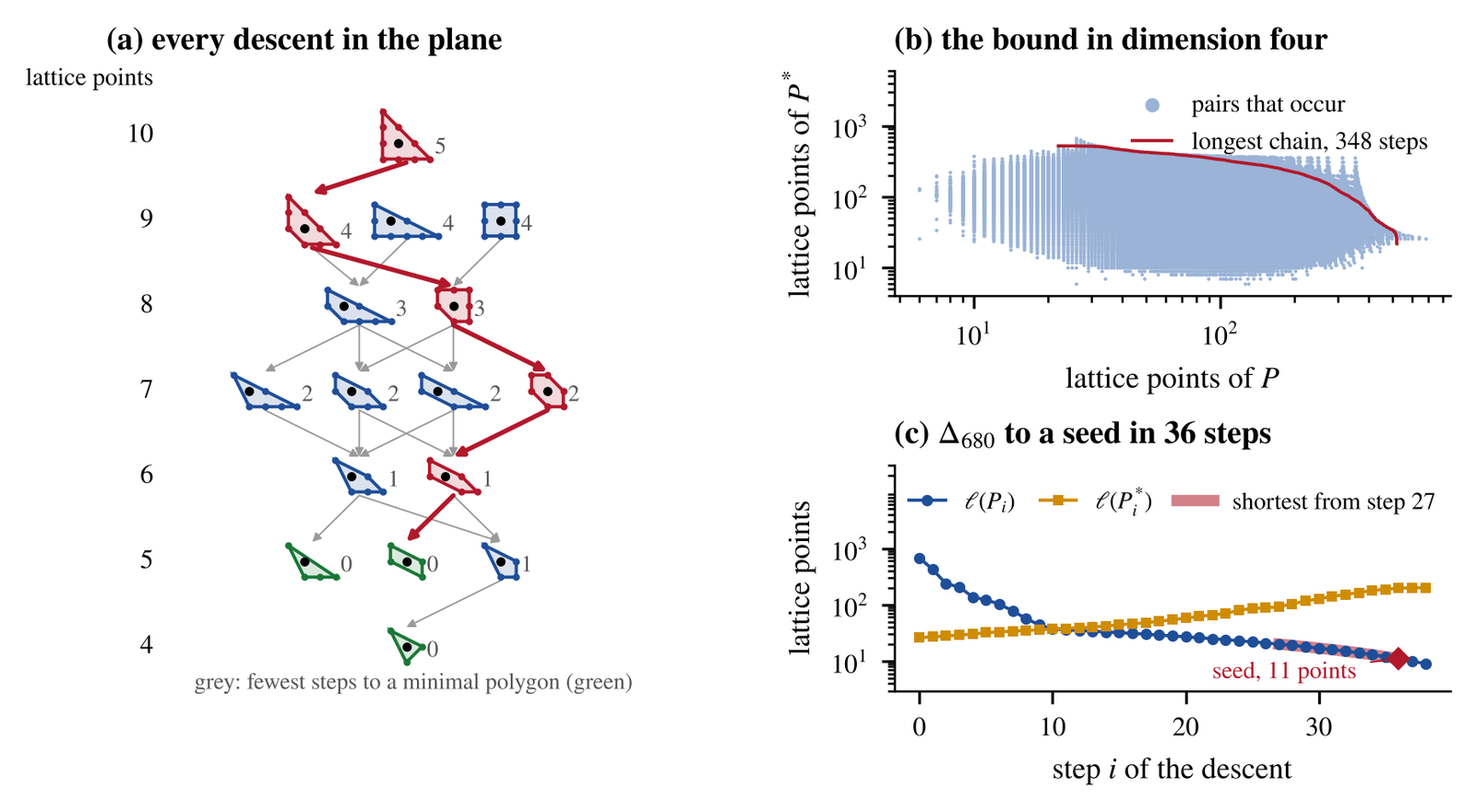
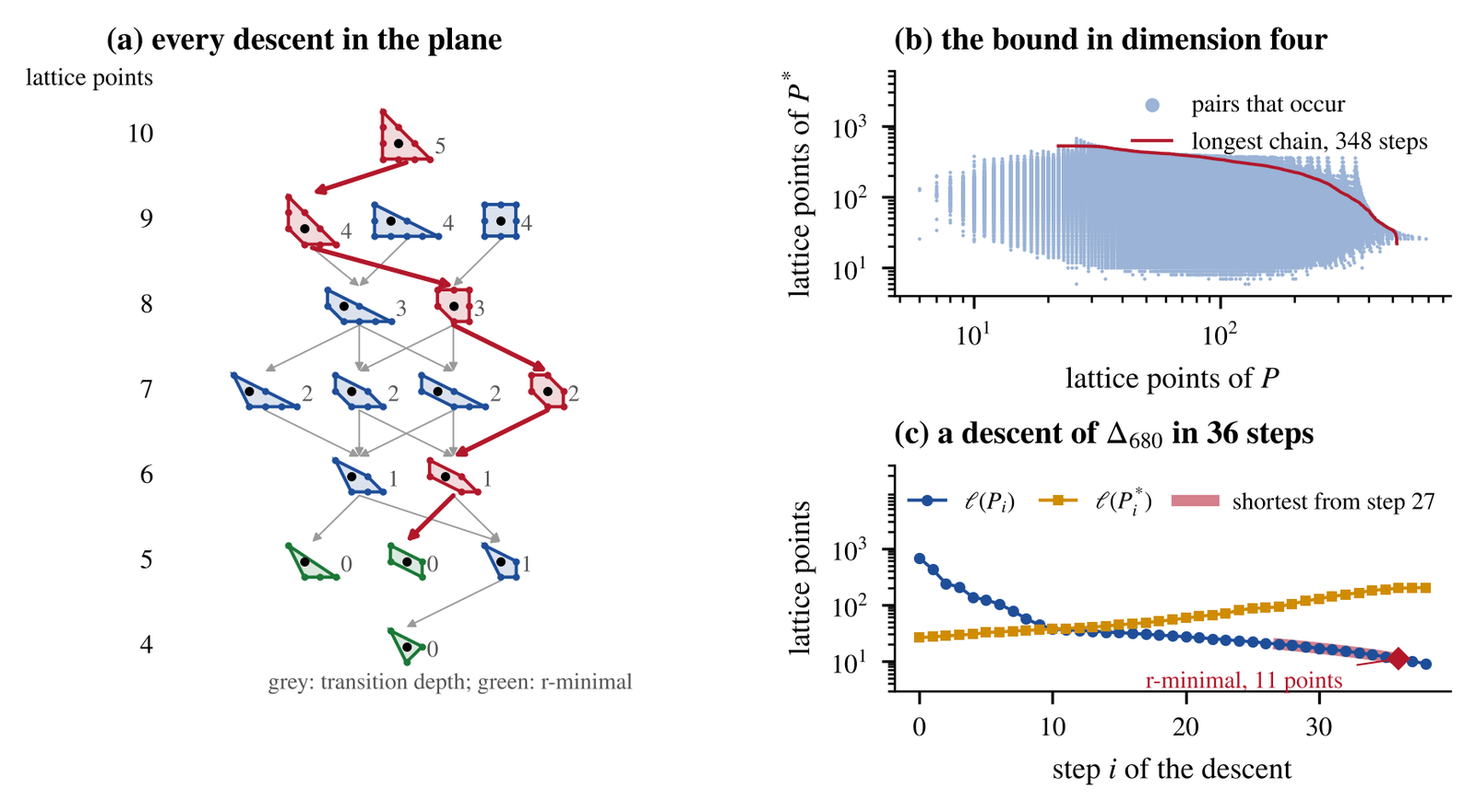
Construction mode: covers of reflexive polytopes in any dimension; the seed section states descents through covers; figure compaction skips compacted images

Changed region(s): [[0.125, 0.8275, 0.4375, 0.8581], [0.625, 0.521, 0.9062, 0.5516], [0.7812, 0.7968, 0.9375, 0.8581]]

diff --git a/paper/bllm/paper/sections/sec10i_seed.tex b/paper/bllm/paper/sections/sec10i_seed.tex
@@ -6,49 +6,45 @@ The sixth benchmark asks for one open conjecture of mathematical physics, of sta
 
 A lattice polytope $P\subset\mathbb{R}^{d}$ is \emph{reflexive} if the origin is an interior point and every facet of $P$ lies on a hyperplane $\{x:\langle a,x\rangle=1\}$ with $a\in\mathbb{Z}^{d}$. The vectors $a$ are then the vertices of the polar dual $P^{*}=\{y:\langle x,y\rangle\le1\text{ for }x\in P\}$, which is again reflexive, and $(P^{*})^{*}=P$. Batyrev showed that the anticanonical hypersurfaces of the toric variety of a reflexive $4$-polytope are Calabi--Yau threefolds, with mirror family given by $P^{*}$ \cite{Bat94}, and Kreuzer and Skarke listed all reflexive $4$-polytopes up to $\mathrm{GL}(4,\mathbb{Z})$: there are $\seedCount$ of them \cite{KS00}. Write $\ell(P)$ for the number of lattice points of $P$.
 
-A \emph{descent step} removes one vertex $v$ of $P$ and keeps the convex hull of the other lattice points,
-\[
-P\;\longmapsto\;P_{v}=\operatorname{conv}\bigl((P\cap\mathbb{Z}^{d})\setminus\{v\}\bigr),
-\]
-when $P_{v}$ is again reflexive. A polytope with no descent step is \emph{minimal}, a \emph{seed}. A \emph{descent} is a sequence of steps, and since every step loses a lattice point a descent stops, at a seed. The seed conjecture of \cite{BhaSeed} asserts, in the form proved here, that every reflexive $4$-polytope reaches a seed within a number of steps bounded independently of the polytope.\footnote{The source states its conjecture for the orbits of a seed under four kinds of moves, among them stellar subdivisions and polar duality. The form above, in which every step is as small as it can be, is the one settled in \cite{BhaSeed}; it is a statement about single polytopes and can be checked on every polytope of the list.}
+A reflexive polytope $Q\subsetneq P$ is a \emph{cover} of $P$ when no reflexive polytope lies strictly between them, and a \emph{reflexive descent} of $P$ is a chain $P=P_{0}\supsetneq P_{1}\supsetneq\cdots\supsetneq P_{k}$ in which each $P_{i+1}$ is a cover of $P_{i}$ and $P_{k}$ has no cover; $k$ is its number of steps. A reflexive polytope with no cover is \emph{r-minimal}, and every r-minimal polytope contains a minimal polytope in the sense of Kreuzer and Skarke, a \emph{seed} of their list \cite{KS00,BhaSeed}. The \emph{transition depth} $\delta(P)$ is the fewest steps of a reflexive descent of $P$. Every $P$ has a reflexive descent, because a polytope that is not r-minimal has a cover and every step loses a lattice point (Lemma~\ref{lem:seedstep} below). The seed conjecture, in the form stated and proved in \cite{BhaSeed}, asserts that $\delta(P)$ is bounded independently of $P$ in dimension four; the least such bound is the sharp constant $D_{4}=\max_{P}\delta(P)$.\footnote{The conjecture was first stated for chains of subpolytopes whose intermediate hulls are reflexive. The form above, in which no reflexive polytope may be skipped, is the strictest such chain. Deleting a vertex of $P$ and taking the hull of its other lattice points does not suffice from dimension three on: the reflexive $3$-polytope with $15$ lattice points and vertices $(1,0,0)$, $(0,1,0)$, $(-1,-1,0)$, $(0,0,1)$, $(-3,2,-2)$, $(-2,3,-2)$, $(-4,4,-3)$ has no reflexive vertex deletion, yet it has three covers, with $12$, $13$ and $13$ lattice points, and a reflexive descent of five steps \cite{BhaSeed}; construction mode reproduces all three numbers.}
 
 \begin{lemma}\label{lem:seedstep}
-If $P\mapsto Q$ is a descent step, then $\ell(Q)<\ell(P)$ and $\ell(Q^{*})>\ell(P^{*})$.
+If $Q\subsetneq P$ are reflexive, then $\ell(Q)<\ell(P)$ and $\ell(Q^{*})>\ell(P^{*})$.
 \end{lemma}
 
 \begin{proof}
-The removed vertex $v$ of $P$ is not a convex combination of the other points of $P$, so $v\notin Q$, and $Q\subset P$; hence $\ell(Q)<\ell(P)$. Duality reverses inclusion, so $P^{*}\subset Q^{*}$, and $Q^{*}\ne P^{*}$ because $Q\ne P$ and $(Q^{*})^{*}=Q$. A lattice polytope is the hull of its vertices, so some vertex $w$ of $Q^{*}$ lies outside $P^{*}$. As $Q$ is reflexive, $w$ is a lattice point. So $Q^{*}$ has every lattice point of $P^{*}$ and $w$ besides.
+If every vertex of $P$ lay in $Q$, the hull $P$ would lie in $Q$; so some vertex of $P$, a lattice point, is missing from $Q$, and $\ell(Q)<\ell(P)$. Duality reverses inclusion and is injective, so $P^{*}\subsetneq Q^{*}$, and the same argument applied to these two lattice polytopes gives $\ell(Q^{*})>\ell(P^{*})$.
 \end{proof}
 
 Let $S_{d}$ be the set of pairs $(\ell(P),\ell(P^{*}))$ over the reflexive polytopes of dimension $d$, ordered by $(n,m)\succ(n',m')$ when $n>n'$ and $m<m'$, and let $L_{d}$ be the number of steps of a longest chain in this order.
 
 \begin{theorem}\label{thm:seedbound}
-Every descent of a reflexive polytope of dimension $d$ has at most $L_{d}$ steps. In dimension four $L_{4}=\seedBound$: every reflexive $4$-polytope of the Kreuzer--Skarke list reaches a seed, and every descent of it has at most $\seedBound$ steps.
+Every reflexive descent of a reflexive polytope of dimension $d$ has at most $L_{d}$ steps. In dimension four $L_{4}=\seedBound$: every reflexive $4$-polytope of the Kreuzer--Skarke list reaches an r-minimal polytope, and with it a seed, and every reflexive descent of it has at most $\seedBound$ steps.
 \end{theorem}
 
 \begin{proof}
-Let $P_{0}\mapsto P_{1}\mapsto\cdots\mapsto P_{k}$ be a descent and write $x_{i}=(\ell(P_{i}),\ell(P_{i}^{*}))$. Every $x_{i}$ lies in $S_{d}$, and $x_{0}\succ x_{1}\succ\cdots\succ x_{k}$ by Lemma~\ref{lem:seedstep}. This is a chain of $k$ steps, so $k\le L_{d}$. For $d=4$ the set $S_{4}$ is read from the list, and a longest chain is found by sorting the pairs by their first entry and taking a longest strictly increasing subsequence of the second; it has $\seedChain$ pairs.
+Let $P_{0}\supsetneq P_{1}\supsetneq\cdots\supsetneq P_{k}$ be a reflexive descent and write $x_{i}=(\ell(P_{i}),\ell(P_{i}^{*}))$. Every $x_{i}$ lies in $S_{d}$, and $x_{0}\succ x_{1}\succ\cdots\succ x_{k}$ by Lemma~\ref{lem:seedstep}. This is a chain of $k$ steps, so $k\le L_{d}$. For $d=4$ the set $S_{4}$ is read from the list, and a longest chain is found by sorting the pairs by their first entry and taking a longest strictly increasing subsequence of the second; it has $\seedChain$ pairs.
 \end{proof}
 
-The proof needs no search over descents: one pass over the point counts of the list settles all $\seedCount$ polytopes at once. The bound is far from sharp. The largest polytope of the list, the simplex $\Delta_{680}$ with $680$ lattice points, has a listed descent of $38$ steps, each step certified, to a minimal simplex with nine lattice points; from the polytope at step $27$ a shortest descent takes nine steps, so $\Delta_{680}$ reaches a seed in $\seedDelta$ steps \cite{BhaSeed} (Fig.~\ref{fig:seed}(c)). The least number of steps needed in the worst case, the sharp constant, lies between $\seedLow$ and $\seedBound$.
+The proof needs no search over descents: one pass over the point counts of the list settles all $\seedCount$ polytopes at once. It bounds every descent, the longest as well as the shortest, so it need not be close to $D_{4}$. The largest polytope of the list, the simplex $\Delta_{680}$ with $680$ lattice points, has a listed descent of $38$ steps, each step certified, to an r-minimal simplex with nine lattice points; from the polytope at step $27$ a shortest descent takes nine steps, so $\delta(\Delta_{680})\le\seedDelta$ \cite{BhaSeed} (Fig.~\ref{fig:seed}(c)). The sharp constant satisfies $\seedLow\le D_{4}\le\seedBound$.
 
-In lower dimensions the sharp constant is known exactly. In the plane there are $16$ reflexive polygons, and the program \texttt{reflexive} of construction mode lists them, with every descent step between them, from scratch (Fig.~\ref{fig:seed}(a)).
+In lower dimensions the sharp constant is known exactly. In the plane there are $16$ reflexive polygons, and the program \texttt{reflexive} of construction mode lists them, with every cover, from scratch (Fig.~\ref{fig:seed}(a)).
 
 \begin{proposition}\label{prop:seedplane}
-Every reflexive polygon reaches a seed in at most $\seedTwo$ steps, and only the triangle with $10$ lattice points needs $\seedTwo$. The longest descent has $6$ steps, which equals $L_{2}$, and there are three seeds, with $4$, $5$ and $5$ lattice points.
+A cover of a reflexive polygon has one lattice point fewer. Every reflexive polygon has transition depth at most $\seedTwo$, and only the triangle with $10$ lattice points has depth $\seedTwo$. The longest reflexive descent has $6$ steps, which equals $L_{2}$, and there are three r-minimal polygons, with $4$, $5$ and $5$ lattice points.
 \end{proposition}
 
 \begin{proof}
-A reflexive polygon has exactly one interior lattice point, so $\ell(P)=b(P)+1$ with $b$ the number of boundary points, and $b(P)+b(P^{*})=12$ \cite{PRV00}. Hence $S_{2}=\{(n,14-n):4\le n\le10\}$ and $L_{2}=6$. The remaining statements are a finite check over the $16$ polygons, whose numbers of boundary points $3,\dots,9$ occur $1,3,2,4,2,3,1$ times; Fig.~\ref{fig:seed}(a) shows every step. The $10$-point triangle has a single step, to a $9$-point triangle, and from there the shortest way down passes through polygons with $8$, $7$, $6$ and $5$ points.
+A lattice polygon with exactly one interior lattice point is reflexive \cite{PRV00}. Let $Q\subsetneq P$ be reflexive polygons and let $v$ be a vertex of $P$ outside $Q$ (Lemma~\ref{lem:seedstep}). The hull $P_{v}$ of the other lattice points of $P$ contains $Q$, hence the origin in its interior, and has no other interior lattice point, so it is reflexive; it has $\ell(P)-1$ lattice points, as $v$ is not in the hull of the others. If $Q$ is a cover, then $Q=P_{v}$. So $\ell(P)=b(P)+1$ falls by one at each step, where $b$ counts boundary points, and $b(P)+b(P^{*})=12$ \cite{PRV00}. Hence $S_{2}=\{(n,14-n):4\le n\le10\}$ and $L_{2}=6$. The remaining statements are a finite check over the $16$ polygons, whose numbers of boundary points $3,\dots,9$ occur $1,3,2,4,2,3,1$ times; Fig.~\ref{fig:seed}(a) shows every cover. The $10$-point triangle has a single cover, a $9$-point triangle, and from there the shortest descent passes through polygons with $8$, $7$, $6$ and $5$ points.
 \end{proof}
 
-In dimension three the same algorithm gives $\seedThree$ for all $\seedCountThree$ reflexive polytopes \cite{BhaSeed}. That two of the three dimensions are settled exactly and the third is bracketed by $\seedLow$ and $\seedBound$ is the honest state of the conjecture after this round: it holds, with a uniform bound, and its sharp form in dimension four remains open.
+In dimension three the largest transition depth over all $\seedCountThree$ reflexive polytopes is $\seedThree$ \cite{BhaSeed}. So the conjecture holds in dimension four with a uniform bound, the sharp constant is $\seedTwo$ in dimension two and $\seedThree$ in dimension three, and in dimension four it lies between $\seedLow$ and $\seedBound$.
 
 \begin{figure*}[t]
 \centering
 \includegraphics[width=\textwidth,height=0.78\textheight,keepaspectratio]{figures/fig_seed}
-\Description{Left: the sixteen reflexive polygons in rows by number of lattice points, from ten at the top to four at the bottom, with arrows for every descent step; the shortest descent from the ten-point triangle is red and the three seeds are green. Upper right: the pairs of point counts of the reflexive four-polytopes and their dual, with the longest chain in red. Lower right: the point counts of the largest four-polytope and its dual along a descent of 38 steps, with a shorter descent of 36 steps marked in red.}
-\caption{Descents to seeds. (a) The $16$ reflexive polygons, by number of lattice points, with an arrow for every descent step; the three seeds are green, the shortest descent from the $10$-point triangle is red, and the grey number is the fewest steps from each polygon to a seed. (b) The pairs $(\ell(P),\ell(P^{*}))$ over the $\seedCount$ reflexive $4$-polytopes and a longest chain in the order of Theorem~\ref{thm:seedbound}, of $\seedBound$ steps. (c) The lattice points of $P_{i}$ and of $P_{i}^{*}$ along the listed descent of $\Delta_{680}$; from step $27$ a shortest descent (red) ends at a seed with $11$ points after nine steps.}
+\Description{Left: the sixteen reflexive polygons in rows by number of lattice points, from ten at the top to four at the bottom, with arrows for every cover; the shortest descent from the ten-point triangle is red and the three r-minimal polygons are green. Upper right: the pairs of point counts of the reflexive four-polytopes and their dual, with the longest chain in red. Lower right: the point counts of the largest four-polytope and its dual along a descent of 38 steps, with a shorter descent of 36 steps marked in red.}
+\caption{Descents to seeds. (a) The $16$ reflexive polygons, by number of lattice points, with an arrow for every cover; the three r-minimal polygons are green, the shortest descent from the $10$-point triangle is red, and the grey number is the transition depth. (b) The pairs $(\ell(P),\ell(P^{*}))$ over the $\seedCount$ reflexive $4$-polytopes and a longest chain in the order of Theorem~\ref{thm:seedbound}, of $\seedBound$ steps. (c) The lattice points of $P_{i}$ and of $P_{i}^{*}$ along the listed descent of $\Delta_{680}$; from step $27$ a shortest descent (red) ends at an r-minimal polytope with $11$ points after nine steps.}
 \label{fig:seed}
 \end{figure*}
 

diff --git a/src/ebllm/construct/reflexive.py b/src/ebllm/construct/reflexive.py
@@ -1,13 +1,16 @@
-"""Reflexive lattice polytopes: lattice points, duality, descents and the pair-chain bound.
+"""Reflexive lattice polytopes: lattice points, duality, covers, descents and the pair-chain bound.
 
 A lattice polytope P in R^d is reflexive when the origin is an interior point and every facet
 lies on a hyperplane a.x = 1 with a an integral vector; the vectors a are then the vertices of
-the polar dual P*, which is reflexive too. A descent step removes one vertex v of P and keeps
-the convex hull of the other lattice points of P, provided that hull is again reflexive. A
-polytope with no descent step is minimal, and a descent ends at a minimal polytope.
+the polar dual P*, which is reflexive too. A reflexive Q strictly inside P is a cover of P when no
+reflexive polytope lies strictly between them, and a reflexive descent is a chain of covers. A
+polytope with no cover is r-minimal, and a descent ends at an r-minimal polytope; every r-minimal
+polytope contains a minimal polytope in the sense of Kreuzer and Skarke, a seed. In the plane the
+covers of P are the hulls of its lattice points with one vertex left out; from dimension three on
+that operation can miss every cover, and ``covers`` finds them all.
 
-Every step loses at least one lattice point of P (the vertex v) and, because the dual of a
-smaller polytope is larger, gains at least one lattice point of the dual. So along a descent
+Q strictly inside P has fewer lattice points than P (a vertex of P is missing) and, because the
+dual of a smaller polytope is larger, its dual has more lattice points than P*. So along a descent
 the pair (points of P, points of P*) falls strictly in its first entry and rises strictly in
 its second. If S is the set of pairs that occur among the reflexive polytopes of dimension d,
 every descent is a chain in S for that order, and the longest chain in S bounds every descent
@@ -153,9 +156,11 @@ def dual(points):
     return sorted(a for a, _ in facets(points))
 
 
-def descent_steps(points):
-    """Every polytope reached in one descent step: drop a vertex, keep the hull of the other
-    lattice points, when that hull is reflexive. Each is returned as its sorted lattice points."""
+def vertex_deletions(points):
+    """The reflexive polytopes conv((P n Z^d) minus {v}) for the vertices v of P, as sorted lattice points.
+
+    In the plane these are exactly the covers of P (``covers``); from dimension three on a polytope
+    can have covers and no reflexive vertex deletion at all."""
     lp = lattice_points(points)
     out = []
     for v in vertices(lp):
@@ -165,7 +170,58 @@ def descent_steps(points):
     return sorted(set(out))
 
 
+def _origin_inside(lp):
+    """True when the origin is an interior point of conv(lp)."""
+    if dimension(lp) != len(lp[0]):
+        return False
+    return all(c > 0 for _, c in facets(lp))
+
+
+@lru_cache(maxsize=None)
+def _maximal_reflexive(lp):
+    """The maximal reflexive polytopes inside conv(lp), where lp is the full set of lattice points of a
+    lattice polytope. A reflexive polytope inside a polytope X that is not reflexive misses a vertex w of
+    X, so it lies in the hull of the other lattice points of X, whose lattice points are lp minus w."""
+    if not _origin_inside(lp):
+        return ()
+    if is_reflexive(lp):
+        return (lp,)
+    found = set()
+    for w in vertices(lp):
+        found.update(_maximal_reflexive(tuple(p for p in lp if p != w)))
+    return _maximal(found)
+
+
+def _maximal(sets):
+    sets = sorted(set(sets), key=len, reverse=True)
+    keep = []
+    for s in sets:
+        if not any(set(s) < set(t) for t in keep):
+            keep.append(s)
+    return tuple(sorted(keep))
+
+
+def covers(points):
+    """The covers of a reflexive polytope P: the reflexive polytopes Q strictly inside P with no
+    reflexive polytope strictly between Q and P, each as its sorted lattice points. Every reflexive
+    polytope strictly inside P misses a vertex of P, so the covers are the maximal reflexive polytopes
+    inside the hulls conv((P n Z^d) minus {v}) over the vertices v of P."""
+    lp = tuple(lattice_points(points))
+    if not is_reflexive(lp):
+        raise ValueError("the polytope is not reflexive")
+    found = set()
+    for v in vertices(lp):
+        found.update(_maximal_reflexive(tuple(p for p in lp if p != v)))
+    return list(_maximal(found))
+
+
+def descent_steps(points):
+    """The steps of a reflexive descent from P: its covers."""
+    return covers(points)
+
+
 def is_minimal(points):
+    """True when P has no cover (P is r-minimal)."""
     return not descent_steps(points)
 
 
@@ -179,12 +235,12 @@ def _depths(lp):
 
 
 def shortest_descent(points):
-    """The fewest steps from P to a minimal polytope."""
+    """The fewest steps of a reflexive descent of P (its transition depth)."""
     return _depths(tuple(lattice_points(points)))[0]
 
 
 def longest_descent(points):
-    """The most steps of any descent from P (every descent ends at a minimal polytope)."""
+    """The most steps of any reflexive descent of P."""
     return _depths(tuple(lattice_points(points)))[1]
 
 
@@ -252,11 +308,11 @@ def _hermite2(cols):
 def reflexive_polygons():
     """The 16 reflexive polygons up to GL(2, Z), each as its sorted lattice points.
 
-    A reflexive polygon P lies in M* whenever its dual contains the minimal polygon M (duality
-    reverses inclusion), and every dual contains a minimal polygon, the end of any of its
-    descents. So descending from the duals of the minimal polygons reaches every reflexive
+    A reflexive polygon P lies in M* whenever its dual contains the r-minimal polygon M (duality
+    reverses inclusion), and every dual contains an r-minimal polygon, the end of any of its
+    descents. So descending from the duals of the r-minimal polygons reaches every reflexive
     polygon. The three starting polygons below are those duals: the triangle with 10 lattice
-    points, the square [-1, 1]^2 and a triangle with 9 points. The tests check that the minimal
+    points, the square [-1, 1]^2 and a triangle with 9 points. The tests check that the r-minimal
     polygons found are exactly the duals of these three, so the search is closed, and that the
     list agrees with the classical one.
     """

diff --git a/paper/bllm/paper/sections/sec11_status.tex b/paper/bllm/paper/sections/sec11_status.tex
@@ -6,7 +6,7 @@ Inside the model of Section~\ref{sec:model}, the paper determines the least cost
 
 None of this needs foresight or a single agent. A rule that sees only the past costs is sound for every future and pays over the offline optimum an excess of order $\frac{A}{L}\log\log\frac{A}{a_{1}}$, which no online rule avoids (Theorem~\ref{thm:G}), so sound singularities are reached online whenever they are reached at all (Corollary~\ref{cor:onlinesing}). Splitting the work among subagents is free when the budget is split in proportion to cost, and costs exactly a Kullback--Leibler divergence otherwise (Theorem~\ref{thm:H}); cheap checks before one exact check reduce the cost of the exact check to the correct candidates, up to a logarithmic premium (Theorem~\ref{thm:cascade}). Depth has a price of the same kind: $n$ verified layers that share one budget cost at least $n\log(n/\theta)$ nats of soundness, each added layer at least $\log((n+1)/\theta)$ more, and past a finite depth every tower costs more than any fixed amount (Theorem~\ref{thm:tower}).
 
-Outside the model, three results come from the experiments. Theorem~\ref{thm:onethird} proves a lattice mass gap $m\ge-\log(3\beta_{W})$ for four-dimensional $\mathrm{SU}(2)$ on $\beta_{W}<\frac13$ by a gauge fixing with one fixed link per plaquette, and Proposition~\ref{prop:forestceiling} shows that no forest gauge fixing goes further; the theorem is proved here and has not been refereed. Lemma~\ref{lem:levelposet} reduces monochromatic sublattices of a level colouring to weighted posets, and with it Theorem~\ref{thm:fvalues} determines $f(n)$ for $n\le20$. Theorem~\ref{thm:seedbound} proves the seed conjecture for the reflexive polytopes of dimension four with a uniform bound: every descent to a minimal seed has at most $\seedBound$ steps, because each step lowers the lattice points of the polytope and raises those of its dual, and the pairs of the two counts that occur in the Kreuzer--Skarke list admit no longer chain.
+Outside the model, three results come from the experiments. Theorem~\ref{thm:onethird} proves a lattice mass gap $m\ge-\log(3\beta_{W})$ for four-dimensional $\mathrm{SU}(2)$ on $\beta_{W}<\frac13$ by a gauge fixing with one fixed link per plaquette, and Proposition~\ref{prop:forestceiling} shows that no forest gauge fixing goes further; the theorem is proved here and has not been refereed. Lemma~\ref{lem:levelposet} reduces monochromatic sublattices of a level colouring to weighted posets, and with it Theorem~\ref{thm:fvalues} determines $f(n)$ for $n\le20$. Theorem~\ref{thm:seedbound} proves the seed conjecture for the reflexive polytopes of dimension four with a uniform bound: every reflexive descent has at most $\seedBound$ steps, because each step lowers the lattice points of the polytope and raises those of its dual, and the pairs of the two counts that occur in the Kreuzer--Skarke list admit no longer chain.
 
 The measurements of Section~\ref{sec:experiments} are these: typing the constructions is what lets the network reach a step that random pairing does not; Hebbian boosters do not improve on the unboosted network; memory halves the checks needed to reach the plateau and does not raise it; agents reach the plateau sooner and no further; and no transfer of a pattern in the matrix of Section~\ref{ssec:matrix} closes a blocking step. Construction mode rebuilds from the rules of Steinberg's problem the two gadgets of the counterexample of \cite{CHK17} and the counterexample itself, where random combination of library pieces finds nothing, and finds nothing on Erd\H{o}s's question for cycles of length $4$ to $6$ (Section~\ref{ssec:steinberg}). On three targets at equal budgets of exact checks, depth paid once: a second layer whose curriculum turns an easier gadget into a lemma reaches a gadget that the builder alone does not, a third layer adds nothing, and sharing one library and one set of weights shortens the step after the lemma (Section~\ref{ssec:towerbench}). Pointed at the Hodge conjecture alone, the network leaves the gap of every target point where it was after twelve rounds, including a burst that multiplied the cost of a round; counting excludes two of the configurations on $E_{0}^{6}$ left open in \cite{BB26c} and reduces two others to explicit Massey products (Section~\ref{sec:hodgeround}).
 
@@ -24,7 +24,7 @@ Six questions are left open, and each is a precise mathematical question.
 
 \emph{Monochromatic sublattices.} Is $f(n)=O(n)$? For every $n\le20$ some level colouring is optimal (Theorem~\ref{thm:fvalues}); if level colourings are optimal for every $n$, Lemma~\ref{lem:levelposet} reduces the question to words in two letters.
 
-\emph{The sharp seed constant.} What is the least $D$ such that every reflexive $4$-polytope reaches a seed in at most $D$ descent steps? It lies between $\seedLow$ and $\seedBound$ (Section~\ref{sec:seed}); in dimensions two and three it is $\seedTwo$ and $\seedThree$.
+\emph{The sharp seed constant.} What is the least $D$ such that every reflexive $4$-polytope has a reflexive descent of at most $D$ steps? It lies between $\seedLow$ and $\seedBound$ (Section~\ref{sec:seed}); in dimensions two and three it is $\seedTwo$ and $\seedThree$.
 
 \emph{The online constant.} The upper and lower bounds of Theorem~\ref{thm:G} differ by a factor of four in the term $\frac{A_{N}}{L}\log\log\frac{A_{N}}{a_{1}}$. The exact constant is the least $\kappa$ such that a $\theta$-sound online rule has excess $(\kappa+o(1))\frac{A_{N}}{L}\log\log\frac{A_{N}}{a_{1}}$ on every sequence; the bounds give $\frac12\le\kappa\le2$.
 

diff --git a/paper/bllm/paper/sections/sec01_intro.tex b/paper/bllm/paper/sections/sec01_intro.tex
@@ -111,7 +111,7 @@ The theorems price the checks; they do not say where good candidates come from. 
 \item \emph{Depth pays once.} At equal budgets of exact checks, a second layer that first builds an easier gadget and keeps it as a lemma reaches the profile of the second gadget of \cite{CHK17} on seven of ten runs, where the builder alone never reaches it; a third layer reaches it on six. When all layers share one library and one set of weights, the step from the lemma to the goal takes a median of $308$ checks against $2{,}342$ when each copy keeps its own. The crossing loop, given $13$ to $20$ times the budget, finds no gadget, and no tower finds one on Erd\H{o}s's question (Section~\ref{ssec:towerbench}).
 \item \emph{One problem only.} Pointed at the Hodge conjecture alone, with every result of \cite{BB26c} and of the companion paper \cite{BMB26b} in its library, the engine excludes by counting two of the configurations left open on $E_{0}^{6}$ and reduces two others to the ranks of explicit Massey products, and the gap of every target point is the same after the last round as after the first (Section~\ref{sec:hodgeround}).
 \item \emph{It learns from its failures.} Every failed attempt now writes a record that names the part that failed, changes one rule of the engine and is closed by the outcome of the next attempt under the changed rule. In the log so far, \modChanges{} changes of rule followed \modAttempts{} attempts on \modTargets{} targets, and the retries of \modAdvanced{} of the \modBuilt{} changes that were built closed their target. The loop never makes the same change twice on a target, so it stops after at most one attempt more than there are changes it can propose (Proposition~\ref{prop:loopstops}), and it ranks the kinds of change by the posterior mean of their success (Proposition~\ref{prop:playbook}); Section~\ref{sec:selfmod}.
-\item \emph{A benchmark crossed.} On a conjecture about the reflexive polytopes of dimension four, whose Calabi--Yau hypersurfaces form the largest known list of Calabi--Yau threefolds, the engine reached a proof: every descent of such a polytope to a minimal seed has at most $\seedBound$ steps, for all $\seedCount$ polytopes of the Kreuzer--Skarke list, because each step lowers the number of lattice points of the polytope and raises that of its dual (Theorem~\ref{thm:seedbound}). In dimensions two and three the sharp constants are $\seedTwo$ and $\seedThree$; in dimension four the sharp constant lies between $\seedLow$ and $\seedBound$ and is open. This passes the sixth benchmark, one open conjecture of mathematical physics proved without conditions (Section~\ref{sec:seed}).
+\item \emph{A benchmark crossed.} On a conjecture about the reflexive polytopes of dimension four, whose Calabi--Yau hypersurfaces form the largest known list of Calabi--Yau threefolds, the engine reached a proof: shrunk one reflexive polytope at a time, such a polytope reaches a seed in at most $\seedBound$ steps, for all $\seedCount$ polytopes of the Kreuzer--Skarke list, because each step lowers the number of lattice points of the polytope and raises that of its dual (Theorem~\ref{thm:seedbound}). In dimensions two and three the sharp constants are $\seedTwo$ and $\seedThree$; in dimension four the sharp constant lies between $\seedLow$ and $\seedBound$ and is open. This passes the sixth benchmark, one open conjecture of mathematical physics proved without conditions (Section~\ref{sec:seed}).
 \end{enumerate}
 On Erd\H{o}s problem 1183 a reduction to weighted posets (Lemma~\ref{lem:levelposet}) gives the upper bounds that, with the known lower bounds, determine $f(n)$ for $n\le20$ (Theorem~\ref{thm:fvalues}). None of the five problems is solved, and Section~\ref{ssec:whyhard} states for each the step at which every construction we hold stops; the sixth benchmark is passed, by the seed conjecture.
 

diff --git a/paper/bllm/paper/main.tex b/paper/bllm/paper/main.tex
@@ -67,7 +67,7 @@
 
 \begin{abstract}
 \itshape
-A system that improves itself keeps every change that passes a check, so a check that makes errors lets mistakes pile up. We compute the least checking that keeps such a system sound. It is an entropy of the costs of the changes, and an endless chain of improvements stays sound at finite cost exactly when that entropy is finite. A stack of checked layers costs more than its layers would cost alone. We also compute how many guesses a proposer needs before a right one appears: human authors come close to this least number, and language models need $1.5$ to $4.3$ times as many. Anaxia, an engine built on these laws, rebuilt the published 2016 counterexample to Steinberg's conjecture from the rules of a colouring problem alone. It learns from its failures, changing one of its own rules after each attempt that fails, and it proved a conjecture on the four-dimensional reflexive polytopes behind Calabi--Yau threefolds: each of them reaches a minimal seed in at most $\seedBound$ steps. The engine is a work in progress, and its rules and search are being revised and extended for the open problems it has not yet settled.
+A system that improves itself keeps every change that passes a check, so a check that makes errors lets mistakes pile up. We compute the least checking that keeps such a system sound. It is an entropy of the costs of the changes, and an endless chain of improvements stays sound at finite cost exactly when that entropy is finite. A stack of checked layers costs more than its layers would cost alone. We also compute how many guesses a proposer needs before a right one appears: human authors come close to this least number, and language models need $1.5$ to $4.3$ times as many. Anaxia, an engine built on these laws, rebuilt the published 2016 counterexample to Steinberg's conjecture from the rules of a colouring problem alone. It learns from its failures, changing one of its own rules after each attempt that fails, and it proved a conjecture on the four-dimensional reflexive polytopes behind Calabi--Yau threefolds: shrunk one reflexive polytope at a time, each of them reaches a seed in at most $\seedBound$ steps. The engine is a work in progress, and its rules and search are being revised and extended for the open problems it has not yet settled.
 \par\medskip\upshape\noindent\textit{2020 Mathematics Subject Classification.} 68T05; 68T20; 94A17; 60J80; 05C15.
 \end{abstract}
 

diff --git a/paper/bllm/paper/figures/src/make_round8.py b/paper/bllm/paper/figures/src/make_round8.py
@@ -1,7 +1,7 @@
-"""The figure of the benchmark crossed: descents of reflexive polytopes to minimal seeds.
+"""The figure of the benchmark crossed: reflexive descents of reflexive polytopes.
 
 Panel (a) is computed here from construction mode (src/ebllm/construct/reflexive.py): the 16
-reflexive polygons, every descent step between them, and the shortest descent from the largest.
+reflexive polygons, every cover between them, and the shortest descent from the largest.
 Panels (b) and (c) read the data of the seed run, data/seed/pairs4.json (the pairs of lattice
 points of P and of its dual over the Kreuzer-Skarke list, with the longest chain) and
 data/seed/delta680.json (the lattice points along the certified descent of the largest polytope,
@@ -120,7 +120,7 @@ def panel_polygons(ax):
     ax.set_aspect("equal")
     ax.axis("off")
     title(ax, "(a) every descent in the plane")
-    ax.text(3.85, -0.72, "grey: fewest steps to a minimal polygon (green)", fontsize=6.5, ha="right", color=GREY)
+    ax.text(3.85, -0.72, "grey: transition depth; green: r-minimal", fontsize=6.5, ha="right", color=GREY)
 
 
 def panel_pairs(ax):
@@ -152,7 +152,7 @@ def panel_delta680(ax):
     sy = [n[k] - j for j in range(extra + 1)]
     ax.plot(sx, sy, "-", lw=3.2, color=RED, alpha=0.55, zorder=1, label=f"shortest from step {k}")
     ax.plot(sx[-1], sy[-1], "D", ms=4.6, color=RED, mec="none", zorder=5)
-    ax.annotate("seed, 11 points", (sx[-1], sy[-1]), xytext=(sx[-1] - 14, sy[-1] / 2.2), fontsize=6.8,
+    ax.annotate("r-minimal, 11 points", (sx[-1], sy[-1]), xytext=(sx[-1] - 19, 4.3), va="center", fontsize=6.8,
                 color=RED, arrowprops=dict(arrowstyle="-", lw=0.5, color=RED))
     ax.set_yscale("log")
     ax.set_ylim(3, 3e4)
@@ -162,7 +162,7 @@ def panel_delta680(ax):
     ax.legend(frameon=False, loc="upper center", ncol=3, columnspacing=1.0, handlelength=1.5, fontsize=6.8)
     for sp in ("top", "right"):
         ax.spines[sp].set_visible(False)
-    title(ax, rf"(c) $\Delta_{{680}}$ to a seed in {k + extra} steps")
+    title(ax, rf"(c) a descent of $\Delta_{{680}}$ in {k + extra} steps")
 
 
 def fig_seed():

diff --git a/paper/bllm/paper/main_jair.tex b/paper/bllm/paper/main_jair.tex
@@ -92,7 +92,7 @@ We compute the least checking that keeps a self-improving system sound, the leas
 We prove the bounds in a model of repeated random checks, check their finite inequalities in Lean~4, and build Anaxia, an engine that combines human constructions, a shared memory, a mode that builds new objects together with the argument for what they force, stacked layers, and a loop that changes one of its own rules after each attempt that fails.
 
 {\bf Results:}
-The least checking is an entropy of the costs of the changes, and an endless chain of improvements stays sound at finite cost exactly when that entropy is finite. A stack of checked layers costs more than its layers would cost alone. Human authors come close to the least number of guesses, and nine language models need $1.5$ to $4.3$ times as many. Memory halves the checks the engine needs. From the rules of a colouring problem alone, the engine rebuilt the published 2016 counterexample to Steinberg's conjecture. It proved a conjecture on the four-dimensional reflexive polytopes behind Calabi--Yau threefolds: each of them reaches a minimal seed in at most $\seedBound$ steps.
+The least checking is an entropy of the costs of the changes, and an endless chain of improvements stays sound at finite cost exactly when that entropy is finite. A stack of checked layers costs more than its layers would cost alone. Human authors come close to the least number of guesses, and nine language models need $1.5$ to $4.3$ times as many. Memory halves the checks the engine needs. From the rules of a colouring problem alone, the engine rebuilt the published 2016 counterexample to Steinberg's conjecture. It proved a conjecture on the four-dimensional reflexive polytopes behind Calabi--Yau threefolds: shrunk one reflexive polytope at a time, each of them reaches a seed in at most $\seedBound$ steps.
 
 {\bf Conclusions:}
 The price of soundness is an entropy, and it can be computed. The engine is a work in progress, and its rules and search are being revised and extended for the open problems it has not yet settled.

diff --git a/paper/bllm/paper/figures/src/compact_figures.py b/paper/bllm/paper/figures/src/compact_figures.py
@@ -2,6 +2,9 @@
 
     python3 compact_figures.py            # rewrites paper/bllm/paper/figures/*.png in place
 
+Figures that are already opaque palette images of at most 1600 pixels are skipped, so the program
+can be run after any figure program without quantizing the other figures again.
+
 Run it after the figure programs. Every figure is set at the full text width (about 7 inches),
 so each PNG is flattened onto white, scaled to at most 1600 pixels across (about 230 dpi on the
 page), and reduced to a 256-colour palette with pngquant when it is installed. pdfTeX then embeds
@@ -32,16 +35,25 @@ def flatten(path):
     out.save(path, optimize=True)
 
 
+def compacted(path):
+    """True for a PNG this program has already written: an opaque palette image at most MAX_WIDTH
+    across. Those are left alone, so that running the program again does not quantize them twice."""
+    with Image.open(path) as im:
+        return im.mode == "P" and im.width <= MAX_WIDTH and "transparency" not in im.info
+
+
 def main():
-    files = sorted(glob.glob(os.path.join(FIG, "*.png")))
+    every = sorted(glob.glob(os.path.join(FIG, "*.png")))
+    files = [f for f in every if not compacted(f)]
     for f in files:
         flatten(f)
     quant = shutil.which("pngquant")
-    if quant:
+    if quant and files:
         subprocess.run([quant, "--force", "--ext", ".png", "--quality", "80-98", "--speed", "1",
                         "--strip", *files], check=True)
-    total = sum(os.path.getsize(f) for f in files)
-    print(f"{len(files)} figures, {total / 2**20:.1f} MB, palette: {'yes' if quant else 'no (pngquant not found)'}")
+    total = sum(os.path.getsize(f) for f in every)
+    print(f"{len(every)} figures ({len(files)} compacted now), {total / 2**20:.1f} MB, "
+          f"palette: {'yes' if quant else 'no (pngquant not found)'}")
 
 
 if __name__ == "__main__":

diff --git a/paper/bllm/paper/sections/sec10c_benchmark.tex b/paper/bllm/paper/sections/sec10c_benchmark.tex
@@ -17,7 +17,7 @@ Benchmark & Pass line & Partial score & Blocking step \\
 \rr Standard conjecture B & \rr every smooth projective variety & \rr $11$ of $14$ pieces (Table~\ref{tab:split}) & \rr an algebraic inverse of $L$ on transcendental $H^{2}$; it reduces to the Hodge conjecture on $X\times X$ \\
 \rr Chowla & \rr every $k$, ordinary averages & \rr $4$ of $8$ pieces, one more claimed (Table~\ref{tab:split}) & \rr the parity barrier; local Gowers uniformity on intervals of every length $H\to\infty$ \\
 \rr Erd\H{o}s 1183 & \rr $f(n)$ for every $n$, or an answer to Question~9.3: is $f(n)=O(n)$? & \rr $f(n)$ exact for $n\le20$ (Theorem~\ref{thm:fvalues}) & \rr a family of colourings for every $n$ \\
-\rr Mathematical physics & \rr one open conjecture of standard difficulty, proved unconditionally with the engine's constructions & \rr \textbf{passed}: every descent of a reflexive $4$-polytope to a minimal seed has at most $\seedBound$ steps (Theorem~\ref{thm:seedbound}) & \rr none for the pass line; the sharp constant in dimension four lies between $\seedLow$ and $\seedBound$ \\
+\rr Mathematical physics & \rr one open conjecture of standard difficulty, proved unconditionally with the engine's constructions & \rr \textbf{passed}: every reflexive descent of a reflexive $4$-polytope has at most $\seedBound$ steps (Theorem~\ref{thm:seedbound}) & \rr none for the pass line; the sharp constant in dimension four lies between $\seedLow$ and $\seedBound$ \\
 \bottomrule
 \end{tabular}
 \end{table*}

diff --git a/tests/test_reflexive.py b/tests/test_reflexive.py
@@ -58,6 +58,29 @@ class TestReflexive(unittest.TestCase):
                 self.assertLess(len(q), n)
                 self.assertGreater(len(R.lattice_points(R.dual(q))), m)
 
+    def test_covers_in_the_plane_leave_out_one_vertex(self):
+        for p in self.polygons:
+            cs = R.covers(p)
+            self.assertEqual(sorted(cs), R.vertex_deletions(p))
+            for q in cs:
+                self.assertEqual(len(q), len(p) - 1)
+
+    def test_covers_beyond_vertex_deletion_in_three_dimensions(self):
+        # a reflexive polytope with 15 lattice points and no reflexive vertex deletion, which still
+        # has covers and a reflexive descent of 5 steps
+        p = [(1, 0, 0), (0, 1, 0), (-1, -1, 0), (0, 0, 1), (-3, 2, -2), (-2, 3, -2), (-4, 4, -3)]
+        self.assertTrue(R.is_reflexive(p))
+        self.assertEqual(len(R.lattice_points(p)), 15)
+        self.assertEqual(R.vertex_deletions(p), [])
+        cs = R.covers(p)
+        self.assertEqual(sorted(len(q) for q in cs), [12, 13, 13])
+        for q in cs:
+            self.assertTrue(R.is_reflexive(q))
+            self.assertTrue(set(q) < set(R.lattice_points(p)))
+            for r in cs:  # no cover lies inside another
+                self.assertFalse(set(q) < set(r))
+        self.assertEqual(R.shortest_descent(p), 5)
+
     def test_pair_chain_bound(self):
         self.assertEqual(R.pair_chain_bound([]), 0)
         self.assertEqual(R.pair_chain_bound([(5, 1)]), 0)

diff --git a/paper/bllm/paper/sections/bibliography.tex b/paper/bllm/paper/sections/bibliography.tex
@@ -170,8 +170,8 @@ all versions \href{https://doi.org/10.5281/zenodo.23286641}{\nolinkurl{doi:10.52
 
 \bibitem{BhaSeed}
 D. Bhattacharjee,
-\emph{Seed universality for four-dimensional reflexive polytopes},
-preprint (2026).
+\emph{Reflexive descent to minimal seeds in the Kreuzer--Skarke list},
+with code and data, Zenodo (2026).
 
 \bibitem{BJE24}
 B. Brown, J. Juravsky, R. Ehrlich, R. Clark, Q. V. Le, C. R\'e and A. Mirhoseini,
@@ -201,12 +201,6 @@ preprint (2025).
 T. F. Bloom,
 \emph{Erd\H{o}s problem \#1183},
 \href{https://www.erdosproblems.com/1183}{\nolinkurl{erdosproblems.com/1183}}, accessed 18 October 2026.
-
-\bibitem{BMB26a}
-D. Bhattacharjee, P. Mandal and U. Bhattacharya,
-\emph{Resolving Erd\H{o}s--Ulam monochromatic union-closed family conjectures},
-preprint (2026), \href{https://arxiv.org/abs/2610.02833}{\nolinkurl{arXiv:2610.02833}};
-Lean~4 archive, version 5, \href{https://doi.org/10.5281/zenodo.23374973}{\nolinkurl{doi:10.5281/zenodo.23374973}}.
 
 \bibitem{BMB26b}
 D. Bhattacharjee, P. Mandal and U. Bhattacharya,

diff --git a/README.md b/README.md
@@ -546,7 +546,7 @@ problems are OPEN.
 
 `checks/run_all.sh` runs everything that CI runs:
 
-- 128 Python tests (`tests/`), including the update check, the loop and its log, the reflexive
+- 130 Python tests (`tests/`), including the update check, the loop and its log, the reflexive
   polygons and their descents, the six benchmarks, and this README against the package;
 - `checks/c/sandtile.c`: the conservative two-site run does not stabilize in 10⁶ topplings, the
   dissipative run with absorbed share 1/N needs exactly N topplings for N up to 10⁴, and
